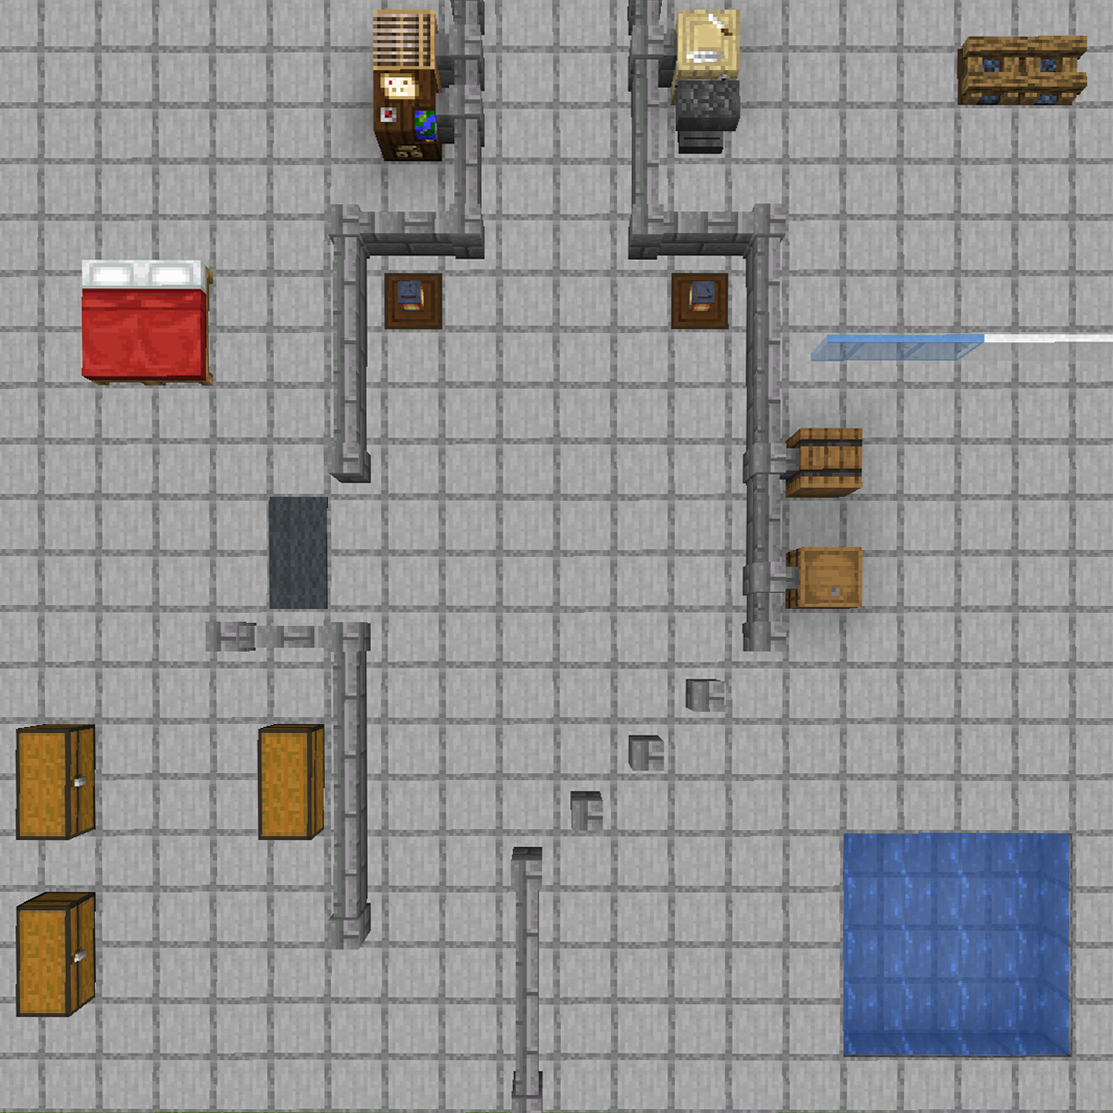
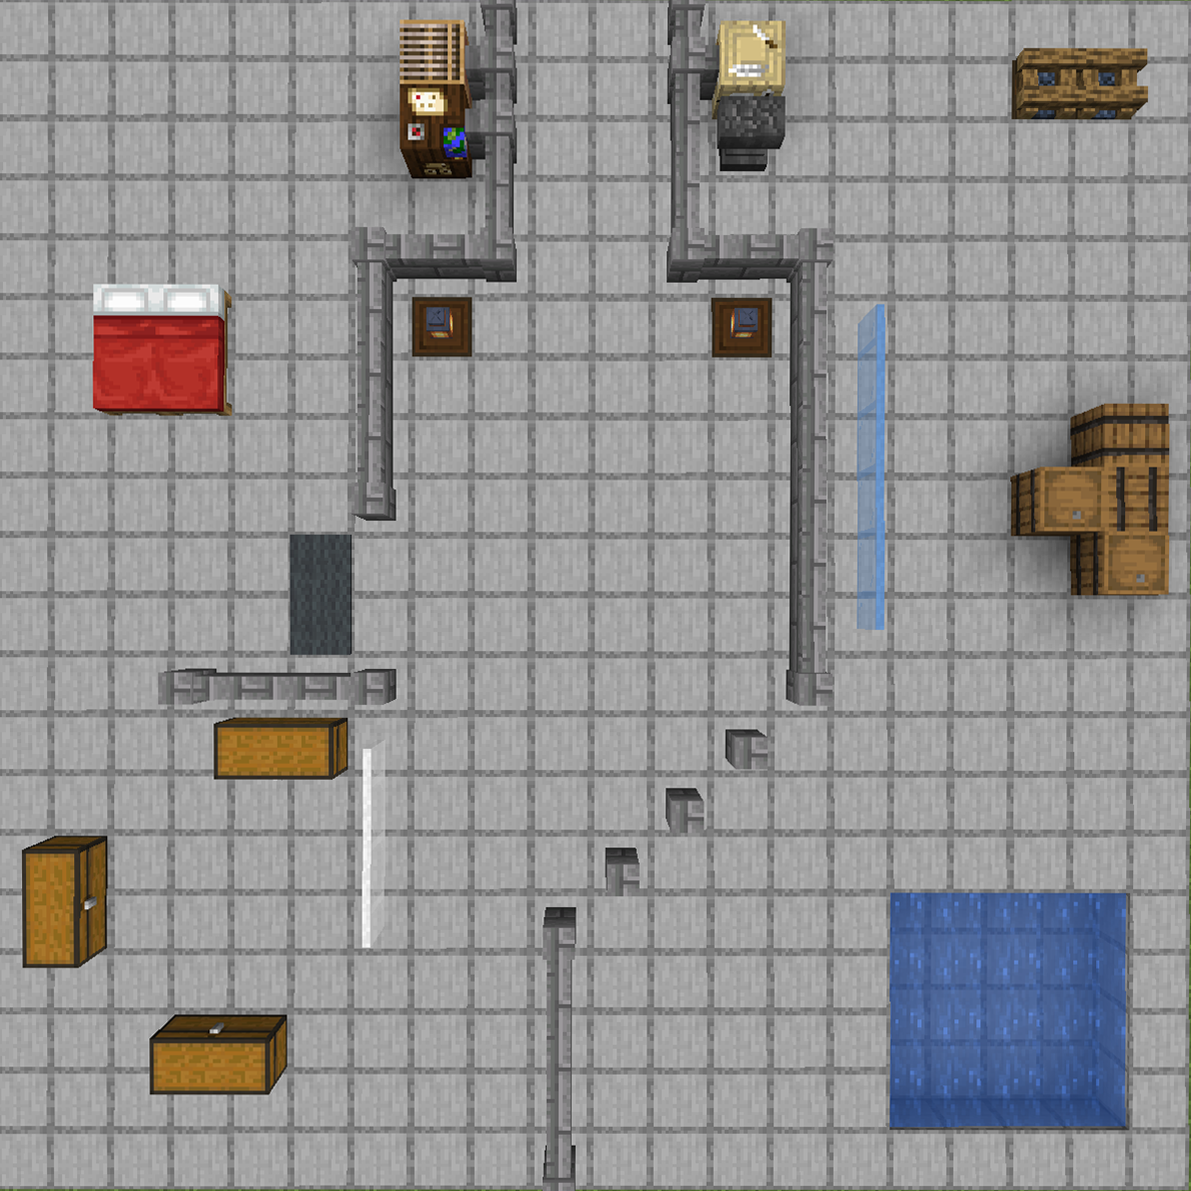
added new image

diff --git a/Monte Carlo Path Tracer/Main.py b/Monte Carlo Path Tracer/Main.py
@@ -156,8 +156,6 @@ def tracePath(ray, depth):
         # create a new ray
         if boundaryCollided.specular:
             newRay = specularBounce(shortestIntersection, boundaryCollided, ray)
-        elif boundaryCollided.transparent:
-            newRay = refractiveBouce(shortestIntersection, boundaryCollided, ray)
         else:
             if depth == MAX_DEPTH - 1:
                 newRay = lightDirectedBounce(shortestIntersection, boundaryCollided, ray, orgLightSources)
@@ -198,7 +196,7 @@ def tracePath(ray, depth):
 WIDTH = 500
 HEIGHT = 500
 RUNNING = True
-NUM_SAMPLES = 100
+NUM_SAMPLES = 10
 MAX_DEPTH = 1
 
 # colors
@@ -207,6 +205,7 @@ ORANGE = np.array([1.0, 0.9, 0.5])
 BLACK = np.array([0.0, 0.0, 0.0])
 RED = np.array([1.0, 0.0, 0.0])
 BLUE = np.array([0.0, 0.0, 1.0])
+WHITE = np.array([1.0, 1.0, 1.0])
 
 # pygame setup
 py.init()
@@ -227,9 +226,9 @@ referencePixels = np.array(refImage)
 
 # light positions
 lightSources = [
-    LightSource(185, 132, YELLOW),
-    LightSource(315, 132, YELLOW),
-    LightSource(435, 28, ORANGE, 485, 28)
+    LightSource(183, 134, YELLOW),
+    LightSource(313, 134, YELLOW),
+    LightSource(430, 32, ORANGE, 480, 32)
     ]
 orgLightSources = organizeLightSources(lightSources)
 
@@ -238,20 +237,19 @@ savedColors = np.zeros((500, 500, len(lightSources), 3))
 
 # boundary positions
 boundaries = [
-    Line(155, 99, 155, 215),
-    Line(155, 100, 210, 100),
-    Line(210, 101, 210, 0),
-    Line(290, 101, 290, 0),
-    Line(92, 286, 155, 286),
-    Line(155, 285, 155, 425),
-    Line(345, 99, 345, 290),
-    Line(290, 100, 345, 100),
+    Line(155, 101, 155, 215),
+    Line(155, 102, 210, 102),
+    Line(210, 103, 210, 0),
+    Line(290, 103, 290, 0),
+    Line(65, 288, 162, 288),
+    Line(153, 287, 153, 400),
+    Line(343, 101, 343, 295),
+    Line(290, 102, 345, 102),
     Line(235, 380, 235, 499),
-    Line(345, 155, 442, 155, True),
-    Line(441, 155, 499, 155, False, True),
-    Line(258, 370, 268, 360),
-    Line(285, 343, 295, 333),
-    Line(311, 318, 321, 308)
+    Line(370, 128, 370, 263, True),
+    Line(256, 373, 266, 363), #window False, True
+    Line(283, 346, 293, 336),
+    Line(309, 320, 319, 310)
     ]
 
 # draw boundaries on screen
@@ -287,8 +285,8 @@ while RUNNING:
     WINDOW.blit(surface, (0, 0))
 
     # tests
-    #drawBoundaries()
-    #drawLightSources()
+    drawBoundaries()
+    drawLightSources()
     #rayG.draw(WINDOW)
 
     # update pygame
